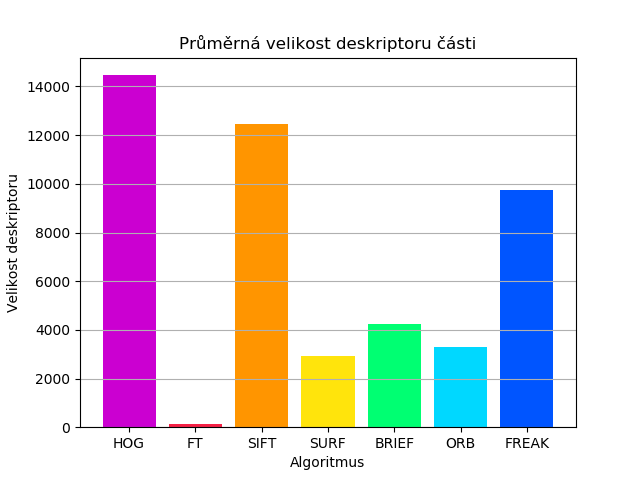
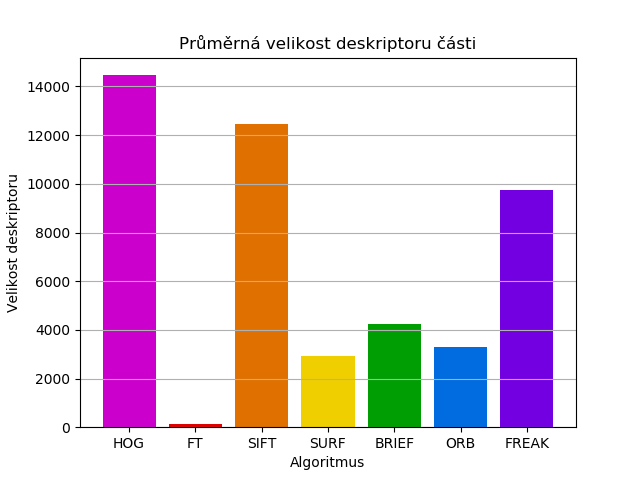
Changed colors a little, added support for twin Y axes for HOG

Changed region(s): [[0.5625, 0.375, 0.875, 0.9062], [0.25, 0.25, 0.4688, 0.9062]]

diff --git a/src/scripts/charts/generateCharts.py b/src/scripts/charts/generateCharts.py
@@ -13,47 +13,56 @@ CHART_DATA = {
     "totalTime": {
         "title": "Celkový čas",
         "yAxisLabel": Y_AXIS_TIME,
-        "type": "number"
+        "percentage": False,
+        "split": True,
     },
     "descriptorPart": {
-        "title": "Spočtení deskriptoru pro hledanou část",
+        "title": "Výpočet deskriptoru pro hledanou část",
         "yAxisLabel": Y_AXIS_TIME,
-        "type": "number"
+        "percentage": False,
+        "split": False,
     },
     "descriptorImage": {
-        "title": "Spočtení deskriptoru pro jednotlivý obrázek",
+        "title": "Výpočet deskriptoru pro jednotlivý obrázek",
         "yAxisLabel": Y_AXIS_TIME,
-        "type": "number"
+        "percentage": False,
+        "split": False,
     },
     "matchingSingle": {
         "title": "Hledání části v jednotlivém obrázku",
         "yAxisLabel": Y_AXIS_TIME,
-        "type": "number"
+        "percentage": False,
+        "split": True,
     },
     "matchingAll": {
         "title": "Hledání části ve všech obrázcích",
         "yAxisLabel": Y_AXIS_TIME,
-        "type": "number"
+        "percentage": False,
+        "split": True,
     },
     "partProcess": {
         "title": "Zpracování celé části",
         "yAxisLabel": Y_AXIS_TIME,
-        "type": "number"
+        "percentage": False,
+        "split": True,
     },
     "descriptorPartSize": {
         "title": "Průměrná velikost deskriptoru části",
         "yAxisLabel": Y_AXIS_SIZE,
-        "type": "number"
+        "percentage": False,
+        "split": False,
     },
     "descriptorImageSize": {
         "title": "Průměrná velikost deskriptoru obrázku",
         "yAxisLabel": Y_AXIS_SIZE,
-        "type": "number"
+        "percentage": False,
+        "split": False,
     },
     "accuracy": {
         "title": "Přesnost hledání",
         "yAxisLabel": Y_AXIS_ACCURACY,
-        "type": "percentage"
+        "percentage": True,
+        "split": False,
     },
 }
 VARIABLES = [
@@ -67,7 +76,7 @@ VARIABLES = [
     "descriptorImageSize",
     "accuracy"
 ]
-COLORS = ["#cb00d1", "#f51f44", "#ff9500", "#ffe40c", "#00ff72", "#00d8ff", "#0055ff"]
+COLORS = ["#cc00cc", "#e00000", "#e07000", "#efcf00", "#009e02", "#006ce0", "#7300e0"]
 
 def getVariableValues(variableName, dataset = data.DATA_SINGLE):
     return list(dataset[variableName].values())
@@ -76,26 +85,69 @@ def getVariableKeys(variableName, dataset = data.DATA_SINGLE):
     return list(dataset[variableName].keys())
 
 def plotAndSave(dataset, variableName, filename=None, show=False):
+    if CHART_DATA[variableName]["split"]:
+        plotAndSaveTwinAxes(dataset, variableName, filename, show)
+    else:
+        plotAndSaveSingleAxis(dataset, variableName, filename, show)
+
+def plotAndSaveSingleAxis(dataset, variableName, filename=None, show=False):
     algorithms = getVariableKeys(variableName, dataset)
     values = getVariableValues(variableName, dataset)
     fig, ax = plt.subplots()
 
     index = np.arange(len(algorithms))
 
-    ax.bar(index, values, color=COLORS)
-    ax.set_xlabel("Algoritmus")
-    ax.set_ylabel(CHART_DATA[variableName]["yAxisLabel"])
-    if CHART_DATA[variableName]["type"] == "percentage":
-        ax.yaxis.set_major_formatter(FuncFormatter(lambda y, _: f"{(100 * y):.0f} %"))
     ax.set_title(CHART_DATA[variableName]["title"])
+
+    ax.set_xlabel("Algoritmus")
     ax.set_xticks(index)
     ax.set_xticklabels(algorithms)
-    plt.grid(True, axis="y", zorder=0)
+
+    ax.set_ylabel(CHART_DATA[variableName]["yAxisLabel"])
+    if CHART_DATA[variableName]["percentage"]:
+        ax.yaxis.set_major_formatter(FuncFormatter(lambda y, _: f"{(100 * y):.0f} %"))
+
+    ax.bar(index, values, color=COLORS)
+
+    plt.grid(True, axis="y")
 
     if show:
         plt.show()
     if not filename is None:
         plt.savefig(os.path.abspath(f"{OUTPUT_DIR}/{filename}"))
+
+
+def plotAndSaveTwinAxes(dataset, variableName, filename=None, show=False):
+    algorithms = getVariableKeys(variableName, dataset)
+    values = getVariableValues(variableName, dataset)
+    fig, ax = plt.subplots()
+
+    index = np.arange(len(algorithms))
+
+    ax.set_title(CHART_DATA[variableName]["title"])
+
+    ax.set_xticks(index)
+    ax.set_xticklabels(algorithms)
+    ax.set_xlabel("Algoritmus")
+
+    ax.set_ylabel(f"{CHART_DATA[variableName]['yAxisLabel']} (HOG)")
+
+    # assume HOG is on the first index
+    ax.bar(index[:1], values[:1], color=COLORS[:1])
+
+    ax2 = ax.twinx()
+
+    ax2.set_ylabel(CHART_DATA[variableName]["yAxisLabel"])
+
+    ax2.bar(index[1:], values[1:], color=COLORS[1:]) # except first (which is HOG)
+
+    plt.grid(True, axis="y")
+
+    if show:
+        plt.show()
+    if not filename is None:
+        plt.savefig(os.path.abspath(f"{OUTPUT_DIR}/{filename}"))
+
 
 print("Generating charts...")
 
